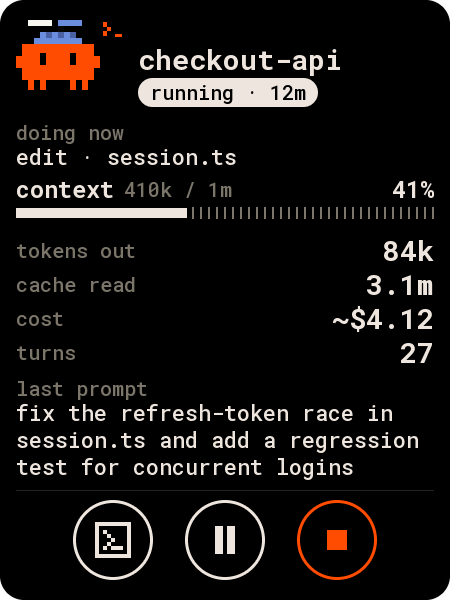
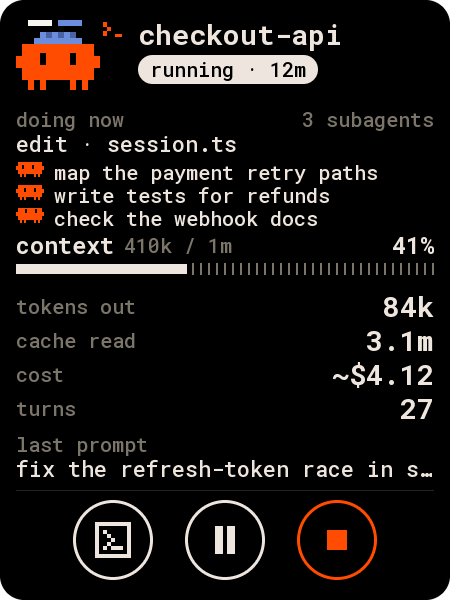
Docs: screenshots and hero with the cards' subagents
Regenerated docs/images/devices and hero-v4 after merging the card header
alignment and subagents; devices.md says where the subagents show.

Claude-Session: https://claude.ai/code/session_01Qi6CVTpwKe76G62P4KuUZF

diff --git a/docs/devices.md b/docs/devices.md
@@ -62,7 +62,8 @@ dial.
 - **What's special:** nine agents to a turn; more than nine and the ring keeps going, with dots at
   the bottom showing where you are. A waiting agent has a solid orange ring; a finished one you haven't
   seen, a dashed one. Someone waiting off screen: an orange arc on the rim points to them, and after 10 s
-  untouched the ring turns to them by itself (it never answers by itself).
+  untouched the ring turns to them by itself (it never answers by itself). The detail shows the
+  agent's working subagents as small critters beside it.
 - **Gestures:** drag round the ring to turn it (flick to keep it going); swipe left or right across
   the middle for the next or previous agent; tap an agent to bring it to the top; tap the middle for
   its detail, or its prompt when it waits. On the detail and prompt: swipe down or tap "×" to go back,
@@ -102,7 +103,7 @@ looks like the desk panel and the web board.
 | <img src="images/devices/lcd4-home.png" width="200" alt="the 4x4 grid"> | <img src="images/devices/lcd4-card.png" width="200" alt="an agent's card with numbers and buttons"> | <img src="images/devices/lcd4-permission.png" width="200" alt="an orange permission card"> | <img src="images/devices/lcd4-wifi.png" width="200" alt="the joining Wi-Fi notice"> |
 
 - **What's special:** the biggest board, and the closest to the desk panel: tiles by slot, paged;
-  the card with tokens, cache, cost and turns; prompts where you pick an answer, then **send**.
+  the card with its subagent crew, tokens, cache, cost and turns; prompts where you pick an answer, then **send**.
 - **Gestures:** tap a tile for its card; swipe or tap the page bars to change page; swipe right or
   press BOOT to go back. On the card, stop arms on the first tap ("tap again to stop").
 - **Build:** for now flash the **2.0.17 build** (`pio run -d firmware/devices/waveshare-touch-lcd-4 -t
@@ -121,7 +122,8 @@ A small, bright AMOLED: true black, 2×2 tiles in one continuous list you scroll
 |---|---|---|---|
 | <img src="images/devices/amoled18-home.png" width="160" alt="2x2 tiles with the header counting who waits"> | <img src="images/devices/amoled18-card.png" width="160" alt="an agent's card"> | <img src="images/devices/amoled18-permission.png" width="160" alt="an orange permission prompt"> | <img src="images/devices/amoled18-wifi.png" width="160" alt="the joining Wi-Fi notice"> |
 
-- **What's special:** pocket-sized, with a battery option from Waveshare. The header counts who waits
+- **What's special:** pocket-sized, with a battery option from Waveshare. The card lists up to three
+  working subagents, each a small critter with its task. The header counts who waits
   and who runs; on Wi-Fi it carries a small Wi-Fi mark. Content keeps clear of the glass's rounded
   corners.
 - **Gestures:** drag to scroll (it settles on a row; a flick carries further); tap a tile for its card;
